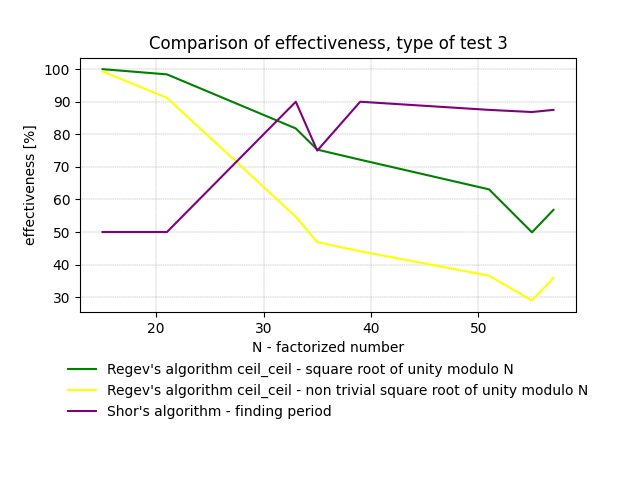
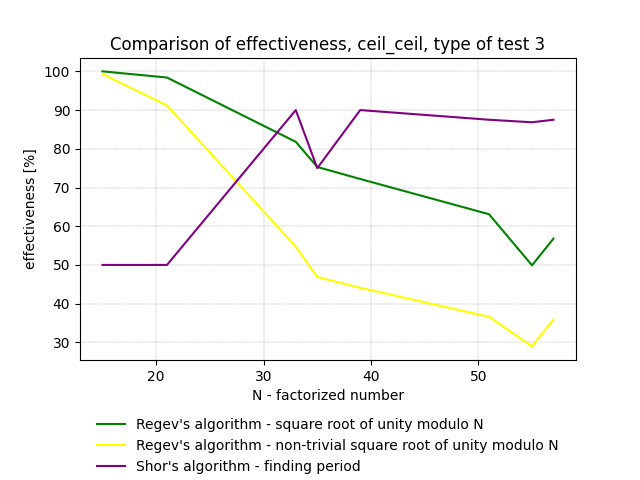
adding plots

diff --git a/utils/plots/effectiveness/effectiveness_floor_ceil.py b/utils/plots/effectiveness/effectiveness_floor_ceil.py
@@ -11,22 +11,58 @@ for i in range(1, 4):
     N = [15, 21, 33, 35, 39, 51, 55, 57, 65, 69, 77, 85, 91, 95, 119]
     N, regev_floor_ceil_effectiveness_1_N_1, regev_floor_ceil_effectiveness_1_p_q, time = extract_data("floor_ceil", type_of_test, len(N))
 
+    if i == 2:
+        regev_floor_ceil_effectiveness_1_N_1[0] = 98
+        regev_floor_ceil_effectiveness_1_p_q[0] = 98
+
     # odejmowanie części klasycznej ze względu na zaokrąglenie do ms nie ma sensu
     shor_effectiveness = [1/2, 1/2, 18/20, 3/4, 18/20, 14/16, 33/38, 21/24, 10/13, 37/39, 12/13]
     shor_effectiveness = [100 * i for i in shor_effectiveness]
 
-    # plt.figure()
+    plt.figure()
     plt.xlabel("N - factorized number")
     plt.ylabel("effectiveness [%]")
     plt.plot(N[:len(regev_floor_ceil_effectiveness_1_N_1)], regev_floor_ceil_effectiveness_1_N_1,
-             label="Regev's algorithm floor_ceil - square root of unity modulo N", color=colors[i-1][0])
+             label=f"Regev's algorithm - square root of unity modulo N", color=colors[i-1][0])
     plt.plot(N[:len(regev_floor_ceil_effectiveness_1_p_q)], regev_floor_ceil_effectiveness_1_p_q,
-             label="Regev's algorithm floor_ceil - non trivial square root of unity modulo N", color=colors[i-1][1])
-    plt.plot(N[:len(shor_effectiveness)], shor_effectiveness, label="Shor's algorithm - factorization of N", color="purple")
+             label="Regev's algorithm - non-trivial square root of unity modulo N", color=colors[i-1][1])
+    # if i == 3:
+    plt.plot(N[:len(shor_effectiveness)], shor_effectiveness, label=f"Shor's algorithm - factorization of N", color="purple")
 
-    plt.title(f"Comparison of effectiveness, type of test {type_of_test}")
+    plt.title(f"Comparison of effectiveness, floor_ceil, type of test {type_of_test}")
     # plt.legend(bbox_to_anchor=(0, 0.92, 1, 0.2), loc="lower left", mode="expand", borderaxespad=0, ncol=3)
-    plt.subplots_adjust(bottom=0.35)
+    plt.subplots_adjust(bottom=0.25)
+    plt.legend(loc='upper center', bbox_to_anchor=(0.5, -0.15), ncol=1, frameon=False)
+    plt.grid(color='gray', linestyle='--', linewidth=0.25)
+    plt.savefig(f"./../../../images/plots/effectiveness/effectiveness_floor_ceil_{type_of_test}.png")
+
+plt.figure()
+for i in range(1, 4):
+    type_of_test = i
+
+    N = [15, 21, 33, 35, 39, 51, 55, 57, 65, 69, 77, 85, 91, 95, 119]
+    N, regev_floor_ceil_effectiveness_1_N_1, regev_floor_ceil_effectiveness_1_p_q, time = extract_data("floor_ceil", type_of_test, len(N))
+
+    if i == 2:
+        regev_floor_ceil_effectiveness_1_N_1[0] = 98
+        regev_floor_ceil_effectiveness_1_p_q[0] = 98
+
+    # odejmowanie części klasycznej ze względu na zaokrąglenie do ms nie ma sensu
+    shor_effectiveness = [1/2, 1/2, 18/20, 3/4, 18/20, 14/16, 33/38, 21/24, 10/13, 37/39, 12/13]
+    shor_effectiveness = [100 * i for i in shor_effectiveness]
+
+    plt.xlabel("N - factorized number")
+    plt.ylabel("effectiveness [%]")
+    plt.plot(N[:len(regev_floor_ceil_effectiveness_1_N_1)], regev_floor_ceil_effectiveness_1_N_1,
+             label=f"Regev's algorithm - square root of unity modulo N, type of test {type_of_test}", color=colors[i-1][0])
+    plt.plot(N[:len(regev_floor_ceil_effectiveness_1_p_q)], regev_floor_ceil_effectiveness_1_p_q,
+             label=f"Regev's algorithm - non-trivial square root of unity modulo N, type of test {type_of_test}", color=colors[i-1][1])
+    if i == 3:
+        plt.plot(N[:len(shor_effectiveness)], shor_effectiveness, label=f"Shor's algorithm - factorization of N", color="purple")
+
+    plt.title(f"Comparison of effectiveness, floor_ceil")
+    # plt.legend(bbox_to_anchor=(0, 0.92, 1, 0.2), loc="lower left", mode="expand", borderaxespad=0, ncol=3)
+    plt.subplots_adjust(bottom=0.4)
     plt.legend(loc='upper center', bbox_to_anchor=(0.5, -0.15), ncol=1, frameon=False)
     plt.grid(color='gray', linestyle='--', linewidth=0.25)
 plt.savefig(f"./../../../images/plots/effectiveness/effectiveness_floor_ceil_all.png")

diff --git a/utils/plots/effectiveness/effectiveness_ceil_floor.py b/utils/plots/effectiveness/effectiveness_ceil_floor.py
@@ -9,6 +9,9 @@ for i in range(1, 4):
     type_of_test = i
     N, regev_ceil_floor_effectiveness_1_N_1, regev_ceil_floor_effectiveness_1_p_q, time2 = extract_data("ceil_floor", type_of_test, None)
 
+    if i == 2:
+        regev_ceil_floor_effectiveness_1_N_1[0] = 98.8
+        regev_ceil_floor_effectiveness_1_p_q[0] = 98.8
 
     # odejmowanie części klasycznej ze względu na zaokrąglenie do ms nie ma sensu
     shor_effectiveness= [1/2, 1/2, 18/20, 3/4, 18/20, 14/16, 33/38, 21/24]
@@ -18,15 +21,45 @@ for i in range(1, 4):
     plt.xlabel("N - factorized number")
     plt.ylabel("effectiveness [%]")
     plt.plot(N[:len(regev_ceil_floor_effectiveness_1_N_1)], regev_ceil_floor_effectiveness_1_N_1,
-             label="Regev's algorithm ceil_floor - square root of unity modulo N", color=colors[i-1][0])
+             label="Regev's algorithm - square root of unity modulo N", color=colors[i-1][0])
     plt.plot(N[:len(regev_ceil_floor_effectiveness_1_p_q)], regev_ceil_floor_effectiveness_1_p_q,
-             label="Regev's algorithm ceil_floor - non trivial square root of unity modulo N", color=colors[i-1][1])
+             label="Regev's algorithm - non-trivial square root of unity modulo N", color=colors[i-1][1])
     plt.plot(N[:len(shor_effectiveness)], shor_effectiveness, label="Shor's algorithm - finding period", color="purple")
 
-    plt.title(f"Comparison of effectiveness, type of test {type_of_test}")
+    plt.title(f"Comparison of effectiveness, ceil_floor, type of test {type_of_test}")
     # plt.legend(bbox_to_anchor=(0, 0.92, 1, 0.2), loc="lower left", mode="expand", borderaxespad=0, ncol=3)
-    plt.subplots_adjust(bottom=0.35)
+    plt.subplots_adjust(bottom=0.25)
     plt.legend(loc='upper center', bbox_to_anchor=(0.5, -0.15), ncol=1, frameon=False)
     plt.grid(color='gray', linestyle='--', linewidth=0.25)
 
-plt.savefig(f"./../../../images/plots/effectiveness/effectiveness_ceil_floor_{type_of_test}.png")
+    plt.savefig(f"./../../../images/plots/effectiveness/effectiveness_ceil_floor_{type_of_test}.png")
+
+plt.figure()
+for i in range(1, 4):
+    type_of_test = i
+    N, regev_ceil_floor_effectiveness_1_N_1, regev_ceil_floor_effectiveness_1_p_q, time2 = extract_data("ceil_floor", type_of_test, None)
+
+    if i == 2:
+        regev_ceil_floor_effectiveness_1_N_1[0] = 98.8
+        regev_ceil_floor_effectiveness_1_p_q[0] = 98.8
+
+    # odejmowanie części klasycznej ze względu na zaokrąglenie do ms nie ma sensu
+    shor_effectiveness= [1/2, 1/2, 18/20, 3/4, 18/20, 14/16, 33/38, 21/24]
+    shor_effectiveness = [100 * i for i in shor_effectiveness]
+
+    plt.xlabel("N - factorized number")
+    plt.ylabel("effectiveness [%]")
+    plt.plot(N[:len(regev_ceil_floor_effectiveness_1_N_1)], regev_ceil_floor_effectiveness_1_N_1,
+             label=f"Regev's algorithm - square root of unity modulo N, type of test {type_of_test}", color=colors[i-1][0])
+    plt.plot(N[:len(regev_ceil_floor_effectiveness_1_p_q)], regev_ceil_floor_effectiveness_1_p_q,
+             label=f"Regev's algorithm - non-trivial square root of unity modulo N, type of test {type_of_test}", color=colors[i-1][1])
+    if i == 3:
+        plt.plot(N[:len(shor_effectiveness)], shor_effectiveness, label="Shor's algorithm - finding period", color="purple")
+
+    plt.title(f"Comparison of effectiveness, ceil_floor")
+    # plt.legend(bbox_to_anchor=(0, 0.92, 1, 0.2), loc="lower left", mode="expand", borderaxespad=0, ncol=3)
+    plt.subplots_adjust(bottom=0.4)
+    plt.legend(loc='upper center', bbox_to_anchor=(0.5, -0.15), ncol=1, frameon=False)
+    plt.grid(color='gray', linestyle='--', linewidth=0.25)
+
+plt.savefig(f"./../../../images/plots/effectiveness/effectiveness_ceil_floor_all.png")

diff --git a/utils/plots/effectiveness/effectivenes_ceil_ceil.py b/utils/plots/effectiveness/effectivenes_ceil_ceil.py
@@ -9,6 +9,9 @@ for i in range(1, 4):
 
     N, regev_ceil_ceil_effectiveness_1_N_1, regev_ceil_ceil_effectiveness_1_p_q, time = extract_data("ceil_ceil", type_of_test, None)
 
+    if i == 2:
+        regev_ceil_ceil_effectiveness_1_N_1[0] = 100
+        regev_ceil_ceil_effectiveness_1_p_q[0] = 100
 
     # odejmowanie części klasycznej ze względu na zaokrąglenie do ms nie ma sensu
     shor_effectiveness= [1/2, 1/2, 18/20, 3/4, 18/20, 14/16, 33/38, 21/24]
@@ -18,14 +21,44 @@ for i in range(1, 4):
     plt.xlabel("N - factorized number")
     plt.ylabel("effectiveness [%]")
     plt.plot(N[:len(regev_ceil_ceil_effectiveness_1_N_1)], regev_ceil_ceil_effectiveness_1_N_1,
-             label="Regev's algorithm ceil_ceil - square root of unity modulo N", color=colors[i-1][0])
+             label="Regev's algorithm - square root of unity modulo N", color=colors[i-1][0])
     plt.plot(N[:len(regev_ceil_ceil_effectiveness_1_p_q)], regev_ceil_ceil_effectiveness_1_p_q,
-             label="Regev's algorithm ceil_ceil - non trivial square root of unity modulo N", color=colors[i-1][1])
+             label="Regev's algorithm - non-trivial square root of unity modulo N", color=colors[i-1][1])
     plt.plot(N[:len(shor_effectiveness)], shor_effectiveness, label="Shor's algorithm - finding period", color="purple")
 
-    plt.title(f"Comparison of effectiveness, type of test {type_of_test}")
+    plt.title(f"Comparison of effectiveness, ceil_ceil, type of test {type_of_test}")
     # plt.legend(bbox_to_anchor=(0, 0.92, 1, 0.2), loc="lower left", mode="expand", borderaxespad=0, ncol=3)
-    plt.subplots_adjust(bottom=0.35)
+    plt.subplots_adjust(bottom=0.25)
     plt.legend(loc='upper center', bbox_to_anchor=(0.5, -0.15), ncol=1, frameon=False)
     plt.grid(color='gray', linestyle='--', linewidth=0.25)
     plt.savefig(f"./../../../images/plots/effectiveness/effectiveness_ceil_ceil_{type_of_test}.png")
+
+plt.figure()
+for i in range(1, 4):
+    type_of_test = i
+
+    N, regev_ceil_ceil_effectiveness_1_N_1, regev_ceil_ceil_effectiveness_1_p_q, time = extract_data("ceil_ceil", type_of_test, None)
+
+    if i == 2:
+        regev_ceil_ceil_effectiveness_1_N_1[0] = 100
+        regev_ceil_ceil_effectiveness_1_p_q[0] = 100
+
+    # odejmowanie części klasycznej ze względu na zaokrąglenie do ms nie ma sensu
+    shor_effectiveness= [1/2, 1/2, 18/20, 3/4, 18/20, 14/16, 33/38, 21/24]
+    shor_effectiveness = [100 * i for i in shor_effectiveness]
+
+    plt.xlabel("N - factorized number")
+    plt.ylabel("effectiveness [%]")
+    plt.plot(N[:len(regev_ceil_ceil_effectiveness_1_N_1)], regev_ceil_ceil_effectiveness_1_N_1,
+             label=f"Regev's algorithm - square root of unity modulo N, type of test {type_of_test}", color=colors[i-1][0])
+    plt.plot(N[:len(regev_ceil_ceil_effectiveness_1_p_q)], regev_ceil_ceil_effectiveness_1_p_q,
+             label=f"Regev's algorithm - non-trivial square root of unity modulo N, type of test {type_of_test}", color=colors[i-1][1])
+    if i == 3:
+        plt.plot(N[:len(shor_effectiveness)], shor_effectiveness, label="Shor's algorithm - finding period", color="purple")
+
+    plt.title(f"Comparison of effectiveness, ceil_ceil")
+    # plt.legend(bbox_to_anchor=(0, 0.92, 1, 0.2), loc="lower left", mode="expand", borderaxespad=0, ncol=3)
+    plt.subplots_adjust(bottom=0.4)
+    plt.legend(loc='upper center', bbox_to_anchor=(0.5, -0.15), ncol=1, frameon=False)
+    plt.grid(color='gray', linestyle='--', linewidth=0.25)
+plt.savefig(f"./../../../images/plots/effectiveness/effectiveness_ceil_ceil_all.png")

diff --git a/utils/plots/changing_T/changing_t.py b/utils/plots/changing_T/changing_t.py
@@ -1,0 +1,52 @@
+import matplotlib.pyplot as plt
+import sys
+
+N = [15, 21, 33, 35, 39, 51, 55, 57]
+
+normal_t_2_all = [0, 84, 64, 52, 82, 0, 34, 82]
+normal_t_2_non_trivial = [0, 36, 54, 22, 80, 0, 22, 70]
+random_t_2_all = [100, 98, 68, 70, 98, 100, 36, 50]
+random_t_2_non_trivial = [82, 76, 48, 50, 44, 100, 26, 42]
+
+normal_t_3_all = [0, 90, 72, 60, 86, 0, 36, 66]
+normal_t_3_non_trivial = [0, 48, 54, 22, 80, 0, 20, 60]
+random_t_3_all = [100, 96, 72, 76, 96, 100, 40, 66]
+random_t_3_non_trivial = [88, 68, 56, 58, 60, 100, 28, 44]
+
+normal_t_5_all = [100, 88, 62, 80, 100, 0, 46, 54]
+normal_t_5_non_trivial = [100, 58, 40, 44, 100, 0, 28, 42]
+random_t_5_all = [100, 90, 78, 72, 100, 100, 60, 58]
+random_t_5_non_trivial = [90, 64, 62, 46, 48, 40, 20, 32]
+
+normal_t_8_all = [96, 94, 82, 72, 100, 100, 76, 56]
+normal_t_8_non_trivial = [96, 70, 42, 28, 24, 98, 14, 26]
+random_t_8_all = [100, 96, 76, 68, 100, 100, 52, 60]
+random_t_8_non_trivial = [100, 66, 48, 40, 44, 34, 26, 36]
+
+normal_t_14_all = [100, 94, 66, 74, 78, 66, 48, 58]
+normal_t_14_non_trivial = [100, 74, 46, 48, 44, 54, 24, 36]
+random_t_14_all = [98, 98, 84, 84, 78, 46, 44, 64]
+random_t_14_non_trivial = [98, 88, 50, 64, 48, 32, 22, 46]
+
+normal_t_16_all = [72, 84, 80, 62, 58, 66, 52, 68]
+normal_t_16_non_trivial = [16, 64, 54, 46, 30, 36, 26, 52]
+random_t_16_all = [98, 100, 84, 68, 70, 64, 56, 68]
+random_t_16_non_trivial = [96, 94, 48, 44, 34, 40, 34, 48]
+
+# t_list = [2, 5, 8, 14, 16]
+t_list = [3]
+for t in t_list:
+    plt.figure()
+    plt.xlabel("N - factorized number")
+    plt.ylabel("effectiveness [%]")
+    plt.plot(N, globals()[f'normal_t_{t}_all'], label=f"Square root of unity modulo N, type of test 1", color='red')
+    plt.plot(N, globals()[f'normal_t_{t}_non_trivial'], label="Non-trivial square root of unity modulo N, type of test 1",
+             color='orange')
+    plt.plot(N, globals()[f'random_t_{t}_all'], label=f"Square root of unity modulo N, type of test 3", color='green')
+    plt.plot(N, globals()[f'random_t_{t}_non_trivial'], label="Non-trivial square root of unity modulo N, type of test 3",
+             color='yellow')
+    plt.title(f"Effectiveness of Regev's algorithm for t = {t}")
+    plt.subplots_adjust(bottom=0.3)
+    plt.legend(loc='upper center', bbox_to_anchor=(0.5, -0.15), ncol=1, frameon=False)
+    plt.grid(color='gray', linestyle='--', linewidth=0.25)
+    plt.savefig(f"./../../../images/plots/changing_t/effectiveness_t_{t}.png")

diff --git a/utils/plots/effectiveness/effectiveness_floor_floor.py b/utils/plots/effectiveness/effectiveness_floor_floor.py
@@ -10,6 +10,10 @@ for i in range(1, 4):
     N = [15, 21, 33, 35, 39, 51, 55, 57, 65, 69, 77, 85, 91, 95, 119, 143]
     N, regev_floor_floor_effectiveness_1_N_1, regev_floor_floor_effectiveness_1_p_q, time2 = extract_data("floor_floor", type_of_test, len(N))
 
+    if i == 2:
+        regev_floor_floor_effectiveness_1_N_1[0] = 98
+        regev_floor_floor_effectiveness_1_p_q[0] = 98
+
     # odejmowanie części klasycznej ze względu na zaokrąglenie do ms nie ma sensu
     shor_effectiveness = [1/2, 1/2, 18/20, 3/4, 18/20, 14/16, 33/38, 21/24, 10/13, 37/39, 12/13]
     shor_effectiveness = [100 * i for i in shor_effectiveness]
@@ -18,14 +22,16 @@ for i in range(1, 4):
     plt.xlabel("N - factorized number")
     plt.ylabel("effectiveness [%]")
     plt.plot(N[:len(regev_floor_floor_effectiveness_1_N_1)], regev_floor_floor_effectiveness_1_N_1,
-             label="Regev's algorithm floor_floor - square root of unity modulo N", color=colors[i-1][0])
+             label=f"Regev's algorithm - square root of unity modulo N", color=colors[i-1][0])
     plt.plot(N[:len(regev_floor_floor_effectiveness_1_p_q)], regev_floor_floor_effectiveness_1_p_q,
-             label="Regev's algorithm floor_floor - non trivial square root of unity modulo N", color=colors[i-1][1])
+             label=f"Regev's algorithm - non-trivial square root of unity modulo N", color=colors[i-1][1])
+    # if i == 3:
     plt.plot(N[:len(shor_effectiveness)], shor_effectiveness, label="Shor's algorithm - factorization of N", color="purple")
 
-    plt.title(f"Comparison of effectiveness, type of test {type_of_test}")
+    plt.title(f"Comparison of effectiveness, floor_floor, type of test {type_of_test}")
     # plt.legend(bbox_to_anchor=(0, 0.92, 1, 0.2), loc="lower left", mode="expand", borderaxespad=0, ncol=3)
-    plt.subplots_adjust(bottom=0.35)
+    plt.subplots_adjust(bottom=0.25)
     plt.legend(loc='upper center', bbox_to_anchor=(0.5, -0.15), ncol=1, frameon=False)
     plt.grid(color='gray', linestyle='--', linewidth=0.25)
     plt.savefig(f"./../../../images/plots/effectiveness/effectiveness_floor_floor_{type_of_test}.png")
+# plt.savefig(f"./../../../images/plots/effectiveness/effectiveness_floor_floor_all.png")

diff --git a/utils/plots/effectiveness/effectiveness_all_type_1.py b/utils/plots/effectiveness/effectiveness_all_type_1.py
@@ -1,0 +1,33 @@
+import matplotlib.pyplot as plt
+import sys
+sys.path.insert(1, '../extract_data')
+from extract_data_from_classical_part import extract_data
+
+colors = [["red", "orange"], ["blue", "gray"], ["green", "yellow"], ["navy", "purple"]]
+
+type = ["ceil_ceil", "ceil_floor", "floor_ceil", "floor_floor"]
+plt.figure()
+for i in range(1, 5):
+    type_of_test = i
+    N, regev_ceil_floor_effectiveness_1_N_1, regev_ceil_floor_effectiveness_1_p_q, time2 = extract_data(type[i-1], 1, None)
+
+    # odejmowanie części klasycznej ze względu na zaokrąglenie do ms nie ma sensu
+    shor_effectiveness = [1 / 2, 1 / 2, 18 / 20, 3 / 4, 18 / 20, 14 / 16, 33 / 38, 21 / 24, 10 / 13, 37 / 39, 12 / 13]
+    shor_effectiveness = [100 * i for i in shor_effectiveness]
+
+    plt.xlabel("N - factorized number")
+    plt.ylabel("effectiveness [%]")
+    plt.plot(N[:len(regev_ceil_floor_effectiveness_1_N_1)], regev_ceil_floor_effectiveness_1_N_1,
+             label=f"Regev's algorithm - square root of unity modulo N, parameter {type[i-1]}", color=colors[i-1][0])
+    plt.plot(N[:len(regev_ceil_floor_effectiveness_1_p_q)], regev_ceil_floor_effectiveness_1_p_q,
+             label=f"Regev's algorithm - non-trivial square root of unity modulo N, parameter {type[i-1]}", color=colors[i-1][1])
+    if i == 4:
+        plt.plot(N[:len(shor_effectiveness)], shor_effectiveness, label="Shor's algorithm - finding period", color="purple")
+
+    plt.title(f"Comparison of effectiveness for 1st type of test")
+    # plt.legend(bbox_to_anchor=(0, 0.92, 1, 0.2), loc="lower left", mode="expand", borderaxespad=0, ncol=3)
+    plt.subplots_adjust(bottom=0.48)
+    plt.legend(loc='upper center', bbox_to_anchor=(0.5, -0.15), ncol=1, frameon=False)
+    plt.grid(color='gray', linestyle='--', linewidth=0.25)
+
+plt.savefig(f"./../../../images/plots/effectiveness/effectiveness_first_type_of_test.png")
